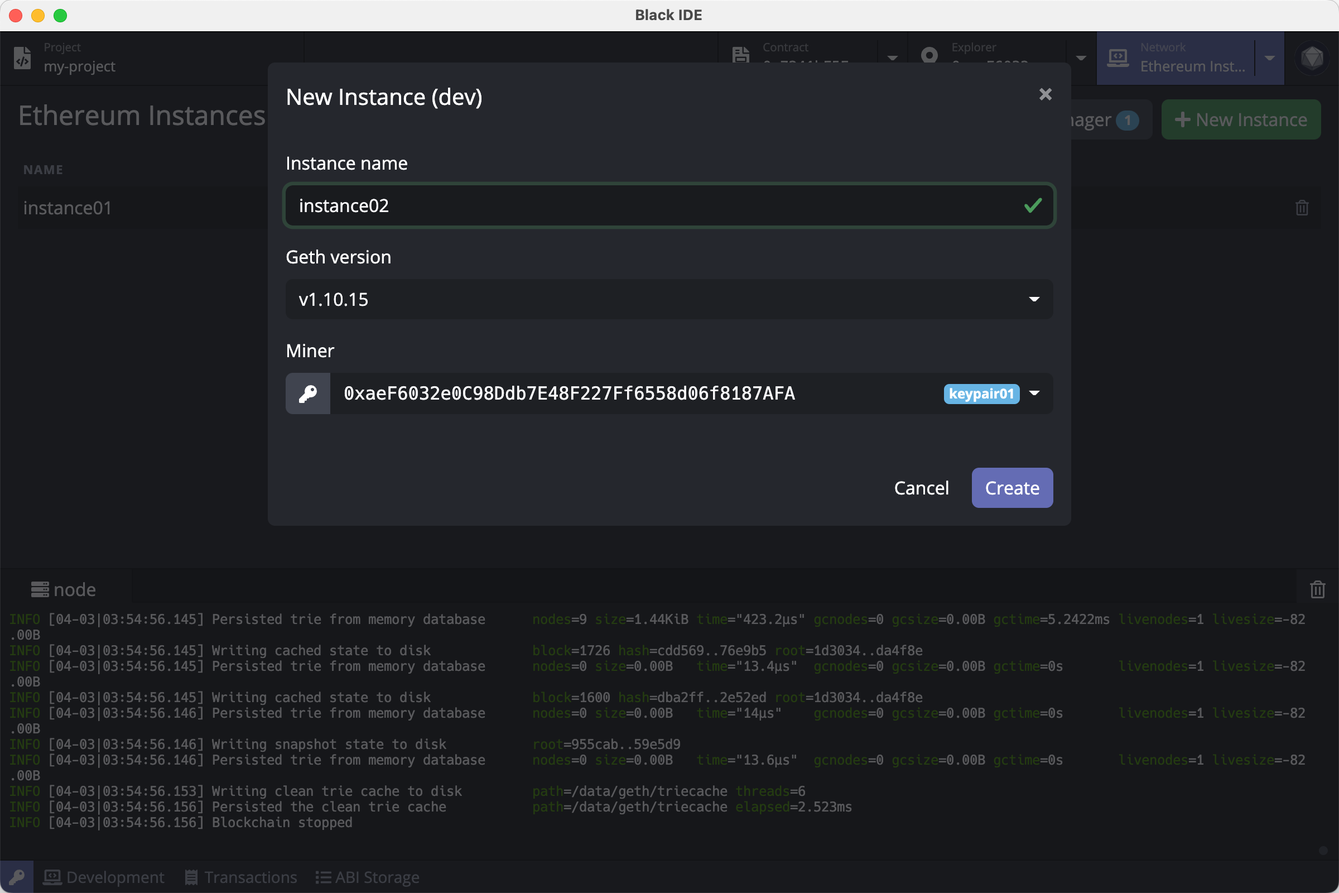
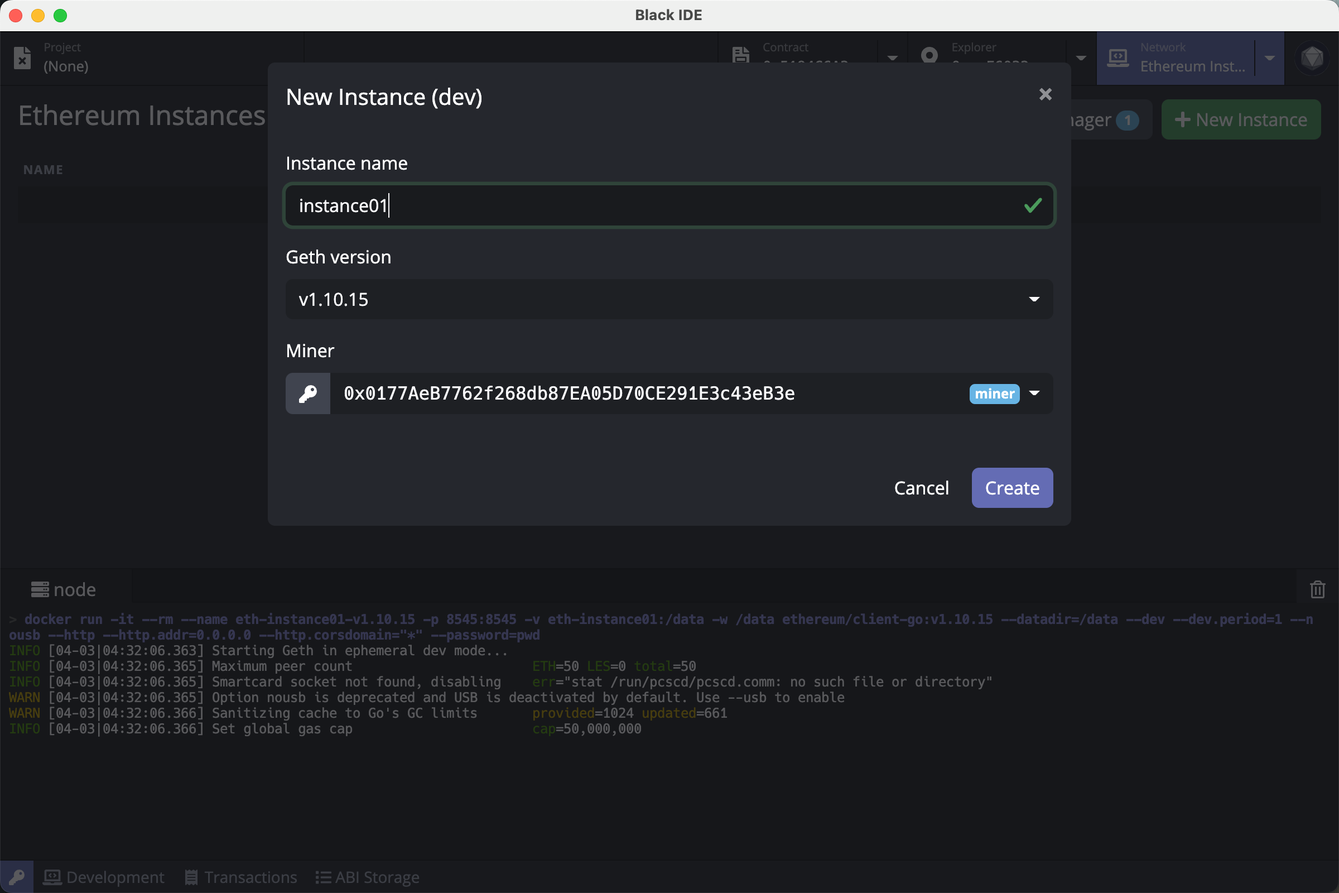
chore: update readme file and screenshots

diff --git a/README.md b/README.md
@@ -15,10 +15,10 @@ Black IDE is an integrated development environment (IDE), making developing [Eth
 Download Black IDE installation package in [Github Release](https://github.com/ObsidianLabs/BlackIDE/releases) according to the computer system type ( `.dmg` for macOS, `.AppImage` for Linux, `.exe` for Windows ).
 
 - **macOS**: Double click to open `BlackIDE-x.x.x.dmg` and drag `Black IDE` to the application folder.
-  - In case of system prompts *"“Black IDE” can’t be opened because Apple cannot check it for malicious software."*, Open *System Perference*, Go to *Security and Privacy*, Click *Open Anyway* in *General* section to allow Black IDE to run.
+  - In case of system prompts _"“Black IDE” can’t be opened because Apple cannot check it for malicious software."_, Open _System Perference_, Go to _Security and Privacy_, Click _Open Anyway_ in _General_ section to allow Black IDE to run.
 - **Linux**: Double-click to open `BlackIDE-x.x.x.AppImage`
-  - If application doesn't respond,double click to select *Properties* => *Permissions* => *Execute*, and tick the *Allow executing file as program* option. Close the properties window and double-click to open the application (different Linux distributions may have different installation methods).
-- **Windows**:  Double click to run the `BlackIDE-x.x.x.exe`.
+  - If application doesn't respond,double click to select _Properties_ => _Permissions_ => _Execute_, and tick the _Allow executing file as program_ option. Close the properties window and double-click to open the application (different Linux distributions may have different installation methods).
+- **Windows**: Double click to run the `BlackIDE-x.x.x.exe`.
 
 ### Post-installation steps for Linux
 
@@ -46,11 +46,11 @@ When Black IDE is properly installed and started for the first time, users will 
   <img src="./screenshots/welcome.png" width="720px">
 </p>
 
-- [**Docker**](https://www.docker.com/) is used to start the Ethereum Node and compile projects in Black IDE. If Docker is not installed yet, users can click the *Install Docker* button to visit the official Docker website and download and install it.
+- [**Docker**](https://www.docker.com/) is used to start the Ethereum Node and compile projects in Black IDE. If Docker is not installed yet, users can click the _Install Docker_ button to visit the official Docker website and download and install it.
 - [**Geth in Docker**](https://github.com/ethereum/go-ethereum) is the Ethereum node image. Black IDE uses the image to run the Ethereum node and compile projects.
 - [**Truffle in Docker**](https://github.com/trufflesuite/truffle) is an Ethereum version of truffle used to create and compile projects.
 
-When all the dependencies are properly installed and run, the gray *Skip* button will change into a violet *Get Started* button. Click the button to enter the main interface of Black IDE.
+When all the dependencies are properly installed and run, the gray _Skip_ button will change into a violet _Get Started_ button. Click the button to enter the main interface of Black IDE.
 
 ### Keypair Manager
 
@@ -60,19 +60,19 @@ After entering the main interface, users need to create some keypairs. Open Keyp
   <img src="./screenshots/keypairs.png" width="720px">
 </p>
 
-Users can create, import and manage keypairs in the keypair manager. Click *Create* button and follow the prompts to key in a name and create a keypair. When creating or editing a keypair, users can set an alias for the keypair identification purpose in later use. Black IDE creates new keypairs with private keys by default but mnemonic is also supported. Simply click on the arrow next to *Regenerate* button and select from the drop-down list.
+Users can create, import and manage keypairs in the keypair manager. Click _Create_ button and follow the prompts to key in a name and create a keypair. When creating or editing a keypair, users can set an alias for the keypair identification purpose in later use. Black IDE creates new keypairs with private keys by default but mnemonic is also supported. Simply click on the arrow next to _Regenerate_ button and select from the drop-down list.
 
 <p align="center">
   <img src="./screenshots/create_keypairs.png" width="720px">
 </p>
 
-In case of importing keypairs, click *Import* button on the bottom-left and put in the private key / mnemonic you want to import. Black IDE will automatically parse it and the corresponding address will be indicated below if the key is deemed valid. Click *Import* again to complete the process.
+In case of importing keypairs, click _Import_ button on the bottom-left and put in the private key / mnemonic you want to import. Black IDE will automatically parse it and the corresponding address will be indicated below if the key is deemed valid. Click _Import_ again to complete the process.
 
 <p align="center">
   <img src="./screenshots/import_keypairs.png" width="720px">
 </p>
 
-Before we proceed, please create a few keypairs in the Keypair Manager. We'll be using three keypairs in the following demos, namely  `miner` , `my-keypair-1`  , `my-keypair-2` .
+Before we proceed, please create a few keypairs in the Keypair Manager. We'll be using three keypairs in the following demos, namely `miner` , `keypair01` , `keypair02` .
 
 **Please note: private keys and mnemonics exclusively prove ownership of a keypair. Please securely store them and DO NOT share them with others under any circumstances. Leaking or losing private keys or mnemonics may lead to permanent loss of digital assets.**
 
@@ -80,9 +80,9 @@ Before we proceed, please create a few keypairs in the Keypair Manager. We'll be
 
 #### Local Ethereum Node
 
-Click *Network* tab to switch to Network Manager. Users can manage Ethereum nodes and Geth installation, including installing, deleting Geth images, or create, delete and run Ethereum node with a specific version of Geth.
+Click _Network_ tab to switch to Network Manager. Users can manage Ethereum nodes and Geth installation, including installing, deleting Geth images, or create, delete and run Ethereum node with a specific version of Geth.
 
-Click *New Instance* button on the top-right corner to pull up the new instance (node) wizard, then key in a name for the node and specify the version for the underlying Geth, and the address of Miner. Finally, click *Create* to complete the process.
+Click _New Instance_ button on the top-right corner to pull up the new instance (node) wizard, then key in a name for the node and specify the version for the underlying Geth, and the address of Miner. Finally, click _Create_ to complete the process.
 
 When creating an Ethereum node, users need to specify a Miner from the keypairs stored in Keypair Manager. Miner mines block locally for the Ethereum node. Here, we pick `miner` keypair in our demo, which will also be the genesis address and thus will be issued some tokens upon the first startup of our local Ethereum node.
 
@@ -90,7 +90,7 @@ When creating an Ethereum node, users need to specify a Miner from the keypairs 
   <img src="./screenshots/create_instance.png" width="720px">
 </p>
 
-When the node is successfully created, click the green *Start* button to start Ethereum node. Users may also view node log in the log viewer below.
+When the node is successfully created, click the green _Start_ button to start Ethereum node. Users may also view node log in the log viewer below.
 
 <p align="center">
   <img src="./screenshots/node_log.png" width="720px">
@@ -98,7 +98,7 @@ When the node is successfully created, click the green *Start* button to start E
 
 #### Ethereum Testnet / Mainnet
 
-Black IDE has built-in configurations for connection to three Ethereum testnets [Ropsten](https://github.com/ethereum/ropsten), [Rinkeby](https://www.rinkeby.io/) and [Kovan](https://kovan-testnet.github.io/), as well as the Ethereum mainnet. Click on the arrow net to *Network* tab and select the network you wish to connect from the drop-down list.
+Black IDE has built-in configurations for connection to three Ethereum testnets [Ropsten](https://github.com/ethereum/ropsten), [Rinkeby](https://www.rinkeby.io/) and [Kovan](https://kovan-testnet.github.io/), as well as the Ethereum mainnet. Click on the arrow net to _Network_ tab and select the network you wish to connect from the drop-down list.
 
 <p align="center">
   <img src="./screenshots/network_selector.png" width="720px">
@@ -106,13 +106,13 @@ Black IDE has built-in configurations for connection to three Ethereum testnets 
 
 #### Custom Network
 
-Black IDE supports custom network connections. Click on the arrow next to *Network* tab, and select *Custom Network* from the drop-down list. Follow the prompt to put in designated node URL information to connect.
+Black IDE supports custom network connections. Click on the arrow next to _Network_ tab, and select _Custom Network_ from the drop-down list. Follow the prompt to put in designated node URL information to connect.
 
 ### Block Explorer
 
-When Ethereum node is up and running, click *Explorer* tag on the top-right corner to switch to Block Explorer. Block Explorer provides a tool to query information at a given address that usually includes token information and transaction history. 
+When Ethereum node is up and running, click _Explorer_ tag on the top-right corner to switch to Block Explorer. Block Explorer provides a tool to query information at a given address that usually includes token information and transaction history.
 
-Click the arrow next to *Explorer* tag, and select the address you would like to query from the drop-down list. Users should now see the information being pulled up on the screen. Meanwhile, users may also manually key in an address to view its corresponding information. Black IDE currently does not support display of transaction history on local Ethereum nodes. Switching to testnet or mainnet to display transaction history associated with the address.
+Click the arrow next to _Explorer_ tag, and select the address you would like to query from the drop-down list. Users should now see the information being pulled up on the screen. Meanwhile, users may also manually key in an address to view its corresponding information. Black IDE currently does not support display of transaction history on local Ethereum nodes. Switching to testnet or mainnet to display transaction history associated with the address.
 
 <p align="center">
   <img src="./screenshots/explorer.png" width="720px">
@@ -125,25 +125,24 @@ Block Explorer will display all holdings of ERC-20 tokens that are listed in [Tr
 </p>
 For user's convenience, Black IDE's block explorer comes with a few widgets. Invoke it by clicking on the buttons next to the address column:
 
-- Click *Transfer* button to initiate a quick transfer. This transfer widget supports transfer(s) of ETH or any ERC-20 holding in the account to a designated recipient. Select the transaction token and key in corresponding parameters, then click *Sign and Push* button to execute. Every transaction will be recorded in the [Transaction History](#Transaction-History) for reference purposes. Now, let's make use of this transfer widget to move 10,000 ETH from `miner` to `my-keypair-1`.
+- Click _Transfer_ button to initiate a quick transfer. This transfer widget supports transfer(s) of ETH or any ERC-20 holding in the account to a designated recipient. Select the transaction token and key in corresponding parameters, then click _Sign and Push_ button to execute. Every transaction will be recorded in the [Transaction History](#Transaction-History) for reference purposes. Now, let's make use of this transfer widget to move 10,000 ETH from `miner` to `keypair01`.
 
 <p align="center">
   <img src="./screenshots/transfer.png" width="720px">
 </p>
 
-- When connecting to testnet, a click on *Faucet* button will direct user to the website where he / she can apply for test tokens for development / test purposes. All faucet tokens are test tokens and have no monetary value.
+- When connecting to testnet, a click on _Faucet_ button will direct user to the website where he / she can apply for test tokens for development / test purposes. All faucet tokens are test tokens and have no monetary value.
 
 ### Smart Contract Project
 
 #### Create New Project
 
-Click *Project* tag to switch to Project Manager. Then click *New* button on the top-right corner to open create project popup. Select whether user wishes to create a local or cloud project, then key in a project name and select the template which will be the base of your project. Black IDE currently offers the following templates:
+Click _Project_ tag to switch to Project Manager. Then click _New_ button on the top-right corner to open create project popup. Select whether user wishes to create a local or cloud project, then key in a project name and select the template which will be the base of your project. Black IDE currently offers the following templates:
 
 - **Coin**: A simple coin contract template；
 - **ERC20 Token**: An ERC-20 token contract template；
 - **[Open Zeppelin] Basics**: A set of templates based on [Open Zeppelin](https://openzeppelin.com/) , which includes ERC-20, ERC-721(NFT), ERC-777 and ERC-1155 contract;
 - **[Truffle] Metacoin**：Contract templates created by Ethereum Truffle. Black IDE currently does not support deploying Metacoin contracts.
-
 
 <p align="center">
   <img src="./screenshots/create_project.png" width="720px">
@@ -151,7 +150,7 @@ Click *Project* tag to switch to Project Manager. Then click *New* button on the
 
 Black IDE supports to create and manage projects out of three common frameworks [Truffle](https://www.trufflesuite.com/truffle), [Hardhat](https://hardhat.org/) and [Waffle](https://ethereum-waffle.readthedocs.io/).
 
-Right now, let's create a new project named `my-project` with Basics template from Open Zeppelin and Truffle framework. Click *Create Project* to start the process. 
+Right now, let's create a new project named `my-project` with Basics template from Open Zeppelin and Truffle framework. Click _Create Project_ to start the process.
 
 We'll stick to this project later in this tutorial as we demo a complete cycle of smart contract development.
 
@@ -163,7 +162,7 @@ When the project is successfully created, users will be redirected to Project Ed
   <img src="./screenshots/editor.png" width="720px">
 </p>
 
-Click the *Project Settings* (gear-shape) icon on the toolbar to open project settings page. Users may view or change project basics, compiler/linter settings, among others.
+Click the _Project Settings_ (gear-shape) icon on the toolbar to open project settings page. Users may view or change project basics, compiler/linter settings, among others.
 
 <p align="center">
   <img src="./screenshots/project_setting.png" width="720px">
@@ -177,30 +176,30 @@ Black IDE's project editor has a built-in linter, which automatically checks cod
 
 #### Compile smart contracts
 
-Click *Build* (hammer-shaped) button on the toolbar to start compiling the current project. Users may view progress in the log viewer in the lower half of the editor. Outputs will be stored as `*.json` files in `build/contracts` folder under the current project path. Refer to [solc documentation](https://docs.soliditylang.org/en/latest/using-the-compiler.html#output-description) for more details about compiled outputs.
+Click _Build_ (hammer-shaped) button on the toolbar to start compiling the current project. Users may view progress in the log viewer in the lower half of the editor. Outputs will be stored as `*.json` files in `build/contracts` folder under the current project path. Refer to [solc documentation](https://docs.soliditylang.org/en/latest/using-the-compiler.html#output-description) for more details about compiled outputs.
 
 <p align="center">
   <img src="./screenshots/compile.png" width="720px">
 </p>
 
-Users may also trigger compilation of a specific `.sol` contract by a right-click on the file, then select *Compile* from the drop-down menu. 
+Users may also trigger compilation of a specific `.sol` contract by a right-click on the file, then select _Compile_ from the drop-down menu.
 
 #### Deploy smart contracts
 
-Click *Deploy* (docker whale) button on the toolbox to open the contract deployment popup. Users may proceed with deployment by filling out all necessary parameters:
+Click _Deploy_ (docker whale) button on the toolbox to open the contract deployment popup. Users may proceed with deployment by filling out all necessary parameters:
 
 - Compiled Contract: The [compiled contract](https://docs.soliditylang.org/en/latest/using-the-compiler.html#output-description) to be deployed in `.json` format. There might be multiple contracts in a single project, choose the proper contract from the drop-down list. Here, we'll be deploying `GLDToken.json` this time;
 - Constructor Parameters: Required parameters to construct functions. Black IDE automatically generates parameter form from data structures predefined in the contract, so that users only need to fill the form. Here, click on the initialSupply column and type in 1000;
-- Signer: Keypair to sign the deployment transaction. This must be a keypair stored in Keypair Manager. Here, we pick `my-keypair-1` from the drop-down list;
+- Signer: Keypair to sign the deployment transaction. This must be a keypair stored in Keypair Manager. Here, we pick `keypair01` from the drop-down list;
 - Gas Limit, Gas Price: Transaction fees for this deployment transaction. Users may leave them blank for Black IDE to estimate on its own or manually override them with your estimates.
 
-Users may also trigger deployment of a specific `.json` output by a right-click on the file, and select *Deploy* from the drop-down menu. 
+Users may also trigger deployment of a specific `.json` output by a right-click on the file, and select _Deploy_ from the drop-down menu.
 
 <p align="center">
   <img src="./screenshots/deploy_parameters.png" width="720px">
 </p>
 
-In the above example, the `GLDToken` contract will distribute all 1,000 initial tokens to the signer address `my-keypair-1` upon its receipt of successful deployment. Click *Estimate & Deploy* button, Black IDE will estimate the transaction fee and fill corresponding sections in the form. Hit *Re-estimate* button to redo it. Finally, click the violet *Deploy* button to send the deployment transaction. Sometimes, transaction fees might be underestimated which leads to a failed deployment with insufficient transaction fee error. In that case, manually override with a higher Gas Limit and Gas Price and retry deployment. 
+In the above example, the `GLDToken` contract will distribute all 1,000 initial tokens to the signer address `keypair01` upon its receipt of successful deployment. Click _Estimate & Deploy_ button, Black IDE will estimate the transaction fee and fill corresponding sections in the form. Hit _Re-estimate_ button to redo it. Finally, click the violet _Deploy_ button to send the deployment transaction. Sometimes, transaction fees might be underestimated which leads to a failed deployment with insufficient transaction fee error. In that case, manually override with a higher Gas Limit and Gas Price and retry deployment.
 
 Deployment transaction(s) may take some time to be processed by the Ethereum network. Usually, a transaction details popup will show up after 10 - 20 seconds. Users may click on tabs to view Parameters, Tx, Receipt and ABI information of the transaction. This popup can be recalled anytime from [Transaction History](#Transaction-History).
 
@@ -210,7 +209,7 @@ Deployment transaction(s) may take some time to be processed by the Ethereum net
 
 ### Invoke smart contract
 
-After the contract is deployed, click the contract address in the Transaction Details popup and user will be redirected to Contract Inspector. Users may also click *Contract* tab to switch to Contract Inspector and type in the address to open a contract. Black IDE's contract inspector allows users to open and debug multiple contracts at the same time.
+After the contract is deployed, click the contract address in the Transaction Details popup and user will be redirected to Contract Inspector. Users may also click _Contract_ tab to switch to Contract Inspector and type in the address to open a contract. Black IDE's contract inspector allows users to open and debug multiple contracts at the same time.
 
 Contract Inspector is mainly divided into three parts:
 
@@ -226,26 +225,25 @@ Black IDE automatically stores contract ABI after deployment and generates above
 
 Now, let's open the `GLDToken` contract we deployed moments ago to demo how to access the contract with Contract Inspector.
 
-First, select *transfer* method from the drop-down list on the left column. *Transfer* method moves a specified amount of tokens from one address to another. We need to populate the parameter form to complete the transaction:
+First, select _transfer_ method from the drop-down list on the left column. _Transfer_ method moves a specified amount of tokens from one address to another. We need to populate the parameter form to complete the transaction:
 
-- Select `my-keypair-2` from the drop-down list as the recipient (manual key-in address is also accepted) and type in 100 for amount as we wish to transfer 100 token in this example;
-- Leave all forms in the Gas section to Black IDE to estimate. 
-- Select `my-keypair-1` from the drop-down list in the Signer column. This also designates `my-keypair-1` as the sender in this transaction. 
+- Select `keypair02` from the drop-down list as the recipient (manual key-in address is also accepted) and type in 100 for amount as we wish to transfer 100 token in this example;
+- Leave all forms in the Gas section to Black IDE to estimate.
+- Select `keypair01` from the drop-down list in the Signer column. This also designates `keypair01` as the sender in this transaction.
 
-Then click *Execute* (Play) button next to *transfer* to push and execute the transaction. Moments later, Ethereum Network will prompt messages stating transaction status and fee information.
+Then click _Execute_ (Play) button next to _transfer_ to push and execute the transaction. Moments later, Ethereum Network will prompt messages stating transaction status and fee information.
 
 <p align="center">
   <img src="./screenshots/transfer_call.png" width="720px">
 </p>
 
-
-Let's proceed by verifying the outcome of last transaction. Select *balanceOf* from the drop-down list of data types, then select `my-keypair-2` from the drop-down list in the account column. And finally hit *Execute* (Play) button to read the data. The result will be shown below, which in our example, is 100. This verifies that the above transfer transaction of 100 tokens to  `my-keypair-2` has been successfully carried out.
+Let's proceed by verifying the outcome of last transaction. Select _balanceOf_ from the drop-down list of data types, then select `keypair02` from the drop-down list in the account column. And finally hit _Execute_ (Play) button to read the data. The result will be shown below, which in our example, is 100. This verifies that the above transfer transaction of 100 tokens to `keypair02` has been successfully carried out.
 
 <p align="center">
   <img src="./screenshots/balanceof.png" width="720px">
 </p>
 
-Finally, we pick *Transfer* from the drop-down list of contract events and click *Get event logs* (Play) button to query all transfer-related events. Results are shown below in the Event Logs section. Black IDE supports a customized range for events query, but can only return maximum 10,000 queries when connecting to local nodes or testnets, and by default the most recent 10,000 records. Therefore, users should keep the custom range within the aforementioned number. When connecting to Ethereum mainnet, the maximum number of event log queries goes down to 1,000.
+Finally, we pick _Transfer_ from the drop-down list of contract events and click _Get event logs_ (Play) button to query all transfer-related events. Results are shown below in the Event Logs section. Black IDE supports a customized range for events query, but can only return maximum 10,000 queries when connecting to local nodes or testnets, and by default the most recent 10,000 records. Therefore, users should keep the custom range within the aforementioned number. When connecting to Ethereum mainnet, the maximum number of event log queries goes down to 1,000.
 
 <p align="center">
   <img src="./screenshots/event_log.png" width="720px">
@@ -253,13 +251,13 @@ Finally, we pick *Transfer* from the drop-down list of contract events and click
 
 #### ABI Storage
 
-When working with Code Inspector, Black IDE relies on contract ABI to generate lists of methods, data types and event types. ABI Storage at the bottom is the place where these ABIs are stored. Upon successful deployment of contract, Black IDE automatically stores contract ABI(s). Users may view the raw ABI data by moving the cursor onto the ABI record and click *Edit* (pencil) icon, or click *Delete* button to remove the ABI record.
+When working with Code Inspector, Black IDE relies on contract ABI to generate lists of methods, data types and event types. ABI Storage at the bottom is the place where these ABIs are stored. Upon successful deployment of contract, Black IDE automatically stores contract ABI(s). Users may view the raw ABI data by moving the cursor onto the ABI record and click _Edit_ (pencil) icon, or click _Delete_ button to remove the ABI record.
 
 <p align="center">
   <img src="./screenshots/abi.png" width="720px">
 </p>
 
-In case when users need to access other contracts (an online contract, for example), he/she needs to add the contract ABI to ABI Storage. Click *New* button in the ABI Storage popup to start the process. For users' convenience, Black IDE also reads ABI from all compiled contracts in the current project. Click *Select from the current project* and select to import ABI from the drop-down list.
+In case when users need to access other contracts (an online contract, for example), he/she needs to add the contract ABI to ABI Storage. Click _New_ button in the ABI Storage popup to start the process. For users' convenience, Black IDE also reads ABI from all compiled contracts in the current project. Click _Select from the current project_ and select to import ABI from the drop-down list.
 
 <p align="center">
   <img src="./screenshots/new_abi.png" width="720px">
@@ -267,7 +265,7 @@ In case when users need to access other contracts (an online contract, for examp
 
 #### Transaction History
 
-Black IDE records every transaction pushed to the network. To view recent transactions, click *Transactions* tab to pull up the list of transactions. Users may single click on a transaction to pull up Transaction Details popup and review information such as Basics, Parameters, Tx and Receipt.
+Black IDE records every transaction pushed to the network. To view recent transactions, click _Transactions_ tab to pull up the list of transactions. Users may single click on a transaction to pull up Transaction Details popup and review information such as Basics, Parameters, Tx and Receipt.
 
 <p align="center">
   <img src="./screenshots/transactions.png" width="720px">
@@ -275,7 +273,7 @@ Black IDE records every transaction pushed to the network. To view recent transa
 
 #### RPC Client
 
-Black IDE also comes with an RPC client allowing users to interact with Ethereum nodes on the low level and examine the raw data. Click the network name tab at the bottom and select *RPC Client* from the drop-down list to pull up RPC Client popup. RPC Clients supports all Ethereum RPC methods. Select from the drop-down list to start, and Black IDE will generate the corresponding parameter form automatically. Fill out necessary parameters and hit *Execute* button to call the method and view the response in the Result section.
+Black IDE also comes with an RPC client allowing users to interact with Ethereum nodes on the low level and examine the raw data. Click the network name tab at the bottom and select _RPC Client_ from the drop-down list to pull up RPC Client popup. RPC Clients supports all Ethereum RPC methods. Select from the drop-down list to start, and Black IDE will generate the corresponding parameter form automatically. Fill out necessary parameters and hit _Execute_ button to call the method and view the response in the Result section.
 
 <p align="center">
   <img src="./screenshots/rpc_client.png" width="720px">
